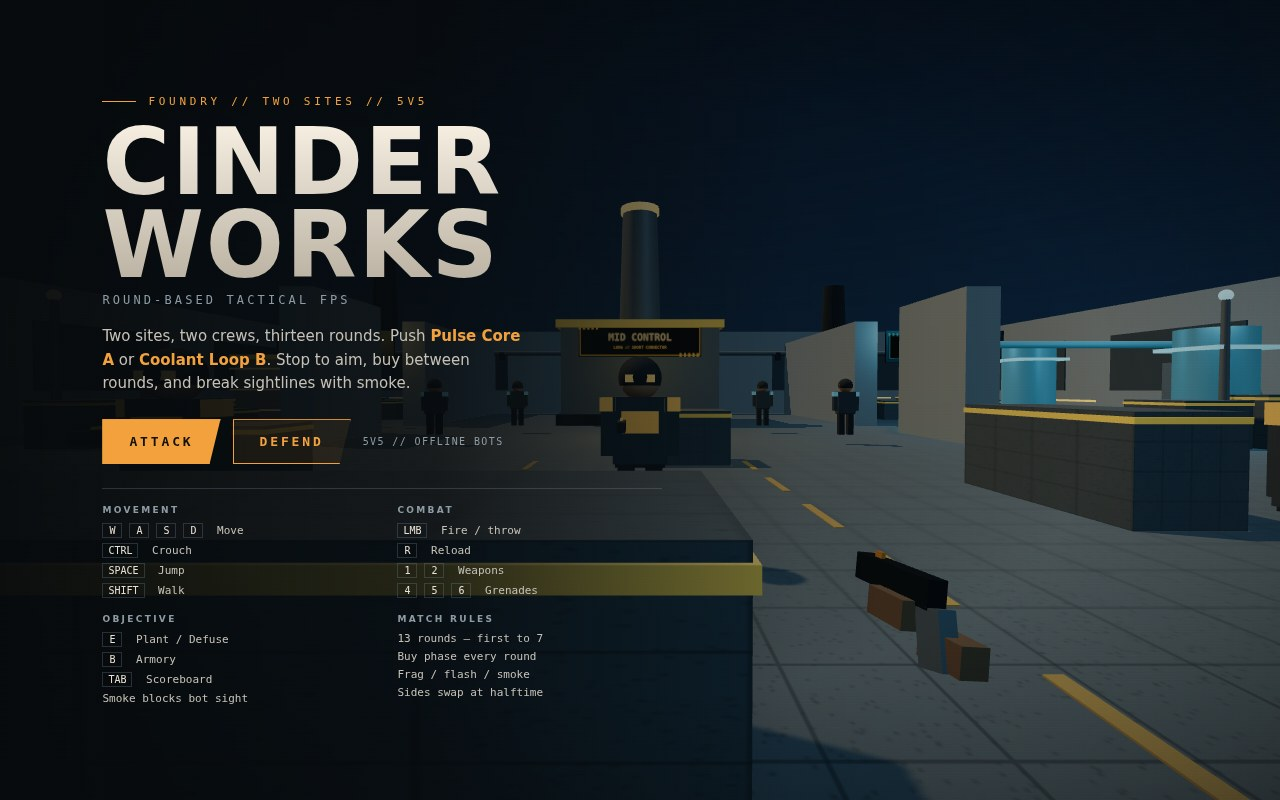
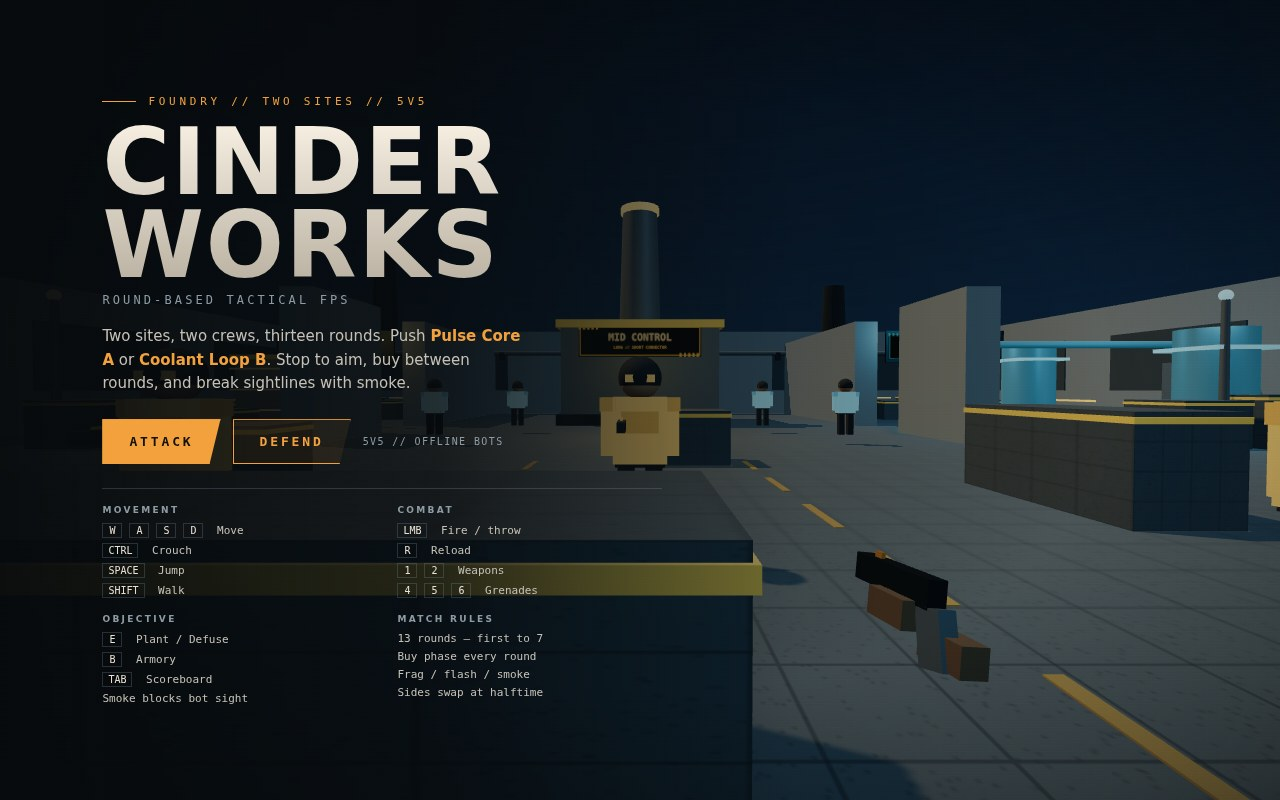
Sharpen team readability, show the planted charge and restage shots

diff --git a/game/src/main.js b/game/src/main.js
@@ -51,6 +51,20 @@ player.state.isPlayer = true;
 player.state.name = 'YOU';
 const bots = createBotSystem(scene, map, rng);
 const match = createMatch();
+const charge = new THREE.Group();
+const chargeShell = new THREE.Mesh(new THREE.BoxGeometry(0.38, 0.16, 0.26), map.materials.dark);
+const chargeStrip = new THREE.Mesh(new THREE.BoxGeometry(0.26, 0.035, 0.035), map.materials.hazard);
+chargeShell.position.y = 0.08;
+chargeStrip.position.set(0, 0.13, -0.135);
+charge.add(chargeShell, chargeStrip);
+charge.visible = false;
+scene.add(charge);
+function syncCharge() {
+const bomb = match.state.bomb;
+charge.visible = bomb.state === 'planted' || bomb.state === 'dropped';
+charge.position.set(bomb.position.x, bomb.state === 'planted' ? 0.16 : 0, bomb.position.z);
+chargeStrip.visible = Math.sin(match.state.now * 4) > -0.4;
+}
 const hud = createHud(map);
 const input = createInput(renderer.domElement, onLockChange);
 const view = createViewModel(camera);
@@ -462,7 +476,6 @@ return;
 const bot = bots.nearestAttacker(state.attackerTeam, bomb.position, 1.3);
 if (bot) {
 match.pickup(bot);
-// A replacement carrier goes straight to the site, not back through its old spawn route.
 bot.siteId = state.attackSite ?? bot.siteId;
 bot.routeIndex = map.routes[bot.siteId][bot.slot % 3].length;
 bot.repathTimer = 0;
@@ -816,8 +829,6 @@ camera.aspect = window.innerWidth / window.innerHeight;
 camera.updateProjectionMatrix();
 renderer.setSize(window.innerWidth, window.innerHeight);
 });
-// Adaptive resolution: a weak GPU scales the picture down, never the round clock.
-// Screenshots run at full quality and never touch this.
 const quality = { scale: 1, cooldown: 0 };
 function adaptQuality(dt) {
 if (shotMode) return;
@@ -1012,15 +1023,19 @@ state.attackerTeam = 'ember';
 state.playerTeam = 'ember';
 state.playerMoney = 3150;
 state.now = 331;
-state.bomb.state = 'carried';
-state.bomb.carrier = player.state;
-state.bomb.timer = 40;
-state.bomb.plantProgress = 0.52;
+state.bomb.state = 'planted';
+state.bomb.siteId = 'B';
+state.bomb.carrier = null;
+state.bomb.position.x = 13.5;
+state.bomb.position.z = -5.5;
+state.bomb.timer = 34;
+state.bomb.plantProgress = 0;
+state.bomb.defuseProgress = 0;
 state.banner = { text: '', sub: '', time: 0 };
 state.feed = [];
-player.state.position.set(12, 0, -3);
-player.state.yaw = 0.02;
-player.state.pitch = -0.36;
+player.state.position.set(13.4, 0, 2.8);
+player.state.yaw = 0.01;
+player.state.pitch = -0.17;
 player.state.health = 88;
 player.state.armor = 100;
 player.state.helmet = true;
@@ -1040,7 +1055,18 @@ loadout.primary.mag = 19;
 loadout.primary.reserve = 90;
 view.state.lowered = false;
 playersShotBots();
-effects.smoke(new THREE.Vector3(4.6, 0.35, -5.8));
+const allies = [[11.0, -2.8, 0.1], [15.8, -3.2, -0.15]];
+for (let i = 0; i < 2; i += 1) {
+bots.roster[i].position.set(allies[i][0], 0, allies[i][1]);
+bots.roster[i].yaw = allies[i][2];
+}
+bots.roster[4].position.set(13.2, 0, -10.2);
+bots.roster[4].yaw = Math.PI + 0.08;
+bots.roster[5].position.set(10.6, 0, -6.0);
+bots.roster[5].alive = false;
+bots.roster[5].deathTimer = 1.5;
+bots.syncModels(botCtx);
+effects.smoke(new THREE.Vector3(17.6, 0.35, -8.6));
 effects.setCameraQuaternion(camera.quaternion);
 effects.update(0.24);
 syncGunHud();
@@ -1054,14 +1080,14 @@ hud.setFeed(state.feed);
 hud.setBanner(state.banner);
 hud.setObjective(objectiveText());
 hud.setCrosshair(0.006);
-hud.setInteract(true, 0.52, 'HOLD E — PLANT AT COOLANT LOOP');
+hud.setInteract(false, 0, '');
 view.update(0.016, activeGun);
 tickHud(0.016);
-hud.setInteract(true, 0.52, 'HOLD E — PLANT AT COOLANT LOOP');
+hud.setInteract(false, 0, '');
 }
 function playersShotBots() {
 bots.resetRound('ember', 'ember');
-const allies = [[5.6, 4.2, -0.6], [-6.4, 2.2, 0.5], [2.8, 10.5, 0.0], [-4.2, 12.0, 0.1]];
+const allies = [[-15.4, -1.0, -0.12], [-6.4, 2.2, 0.5], [2.8, 10.5, 0.0], [-4.2, 12.0, 0.1]];
 for (let i = 0; i < 4; i += 1) {
 const bot = bots.roster[i];
 bot.position.set(allies[i][0], 0, allies[i][1]);
@@ -1107,6 +1133,7 @@ function paintShot(times = 3) {
 let painted = 0;
 function paint() {
 requestAnimationFrame(paint);
+syncCharge();
 syncCamera();
 camera.updateMatrixWorld(true);
 renderer.render(scene, camera);
@@ -1148,7 +1175,6 @@ return;
 const look = input.takeLook();
 if (input.state.locked) player.look(look.x, look.y);
 accumulator += dt;
-// Catch up to the clamped frame time: a slow renderer slows the picture, not the clock.
 const maxSteps = Math.ceil(0.1 / FIXED_STEP);
 let steps = 0;
 while (accumulator >= FIXED_STEP && steps < maxSteps) {
@@ -1166,6 +1192,7 @@ stats.since = now;
 window.__clock = { accumulator, steps };
 adaptQuality(dt);
 tickHud(dt);
+syncCharge();
 syncCamera();
 const alpha = Math.min(1, accumulator / FIXED_STEP);
 camera.position.lerpVectors(previousPositions[0], player.state.position, alpha);

diff --git a/game/src/bots.js b/game/src/bots.js
@@ -8,7 +8,6 @@ const ENEMY_NAMES = ['SLATE', 'MORROW', 'VALE', 'HARROW', 'SABLE'];
 const tempDir = new THREE.Vector3();
 const tempAim = new THREE.Vector3();
 const eyePoint = new THREE.Vector3();
-// Flash afterimage widens aim, then recovers smoothly after the full blind period.
 export function botAimError(bot, distance, speed, now) {
 return bot.aimError * (0.7 + distance / 55) * (speed > 2 ? 1.5 : 1) * (bot.gun.id === 'talon' ? 1.3 : 1)
 * (1 + Math.max(0, bot.dazzledUntil - now) * 1.8);
@@ -27,17 +26,17 @@ return out;
 function makeModel() {
 const group = new THREE.Group();
 const parts = { materials: [] };
-const mat = (color, metalness = 0.25, roughness = 0.7, emissive = 0) => {
+const mat = (color, metalness = 0.25, roughness = 0.7, emissive = 0, role = 'team') => {
 const material = new THREE.MeshStandardMaterial({ color: new THREE.Color(color), metalness, roughness });
 if (emissive) {
 material.emissive = new THREE.Color(color);
 material.emissiveIntensity = emissive;
 }
-parts.materials.push({ material, role: 'team' });
+parts.materials.push({ material, role });
 return material;
 };
 const dark = new THREE.MeshStandardMaterial({ color: new THREE.Color('#283238'), roughness: 0.8, metalness: 0.15 });
-const vest = new THREE.MeshStandardMaterial({ color: new THREE.Color('#3b4850'), roughness: 0.75, metalness: 0.2 });
+const vest = mat('#3b4850', 0.2, 0.75, 0, 'vest');
 const skin = new THREE.MeshStandardMaterial({ color: new THREE.Color('#a37f61'), roughness: 0.9 });
 const torso = new THREE.Mesh(new THREE.BoxGeometry(0.5, 0.62, 0.28), vest);
 torso.position.y = 1.22;
@@ -102,6 +101,7 @@ function styleModel(bot) {
 const color = teamColor(bot.team);
 for (const entry of bot.model.parts.materials) {
 entry.material.color.set(color);
+if (entry.role === 'vest') entry.material.color.multiplyScalar(0.55);
 if (entry.material.emissive) entry.material.emissive.set(color);
 }
 }
@@ -208,7 +208,6 @@ bot.model.parts.legR.rotation.set(0, 0, 0);
 function sideOf(bot, attackerTeam) {
 return bot.team === attackerTeam ? 'attack' : 'defend';
 }
-// Loss-streak eco: save for a rifle and armor rather than force-buying every round.
 function buy(attackerTeam, lossStreak = {}) {
 for (const bot of roster) {
 bot.eco = (lossStreak[bot.team] ?? 0) >= 2 && bot.money < WEAPONS.longbow.price + 650;
@@ -242,7 +241,6 @@ let count = 0;
 for (const bot of roster) if (bot.alive && bot.team === team) count += 1;
 return count;
 }
-// Nearest live attacker coordinates recovery and uses the same eligibility as pickup.
 function nearestAttacker(team, position, range = Infinity) {
 let nearest = null;
 for (const bot of roster) {
@@ -354,7 +352,6 @@ bot.yaw += (rng() - 0.5) * 1.4;
 }
 return actual;
 }
-// Site anchors hold approaches; one attacker retrieves a dropped core while others cover.
 function objectiveFor(bot, ctx, recoverer) {
 const bomb = ctx.bomb;
 const attacking = bot.team === ctx.attackerTeam;
@@ -503,7 +500,6 @@ animate(bot, dt, ctx);
 continue;
 }
 stepGun(bot.gun, dt);
-// Flash and smoke break target lock immediately, even between perception ticks.
 if (bot.target && (bot.blindUntil > ctx.now || ctx.effects.smokeBlocks(bot.position.x, bot.position.z, bot.target.position.x, bot.target.position.z))) {
 bot.target = null;
 bot.lastSeenAt = -10;

diff --git a/game/src/combat.js b/game/src/combat.js
@@ -81,14 +81,12 @@ const falloff = 1 - def.falloff * drop;
 const head = part === 'head' ? def.head : 1;
 return def.damage * falloff * head;
 }
-// Helmets protect heads; body armor absorbs only as much damage as its remaining durability.
 export function armorDamage(entity, amount, part) {
 if (part === 'head') return amount * (entity.helmet ? 0.72 : 1);
 const absorbed = Math.min(amount * 0.5, Math.max(0, entity.armor) / 0.9);
 entity.armor = Math.max(0, entity.armor - absorbed * 0.9);
 return amount - absorbed;
 }
-// Shard blast fades continuously to zero at its 7.5m radius.
 export function fragDamage(distance) {
 return 120 * Math.max(0, 1 - distance / 7.5);
 }

diff --git a/game/src/map.js b/game/src/map.js
@@ -469,7 +469,6 @@ const NEIGHBORS = [
 [1, 0, 1], [-1, 0, 1], [0, 1, 1], [0, -1, 1],
 [1, 1, Math.SQRT2], [1, -1, Math.SQRT2], [-1, 1, Math.SQRT2], [-1, -1, Math.SQRT2],
 ];
-// A* on the 1 m grid, with no diagonal corner cutting.
 function findPath(fromX, fromZ, toX, toZ) {
 const start = nearestOpen(fromX, fromZ);
 const goal = nearestOpen(toX, toZ);

diff --git a/game/src/weapon.js b/game/src/weapon.js
@@ -53,7 +53,6 @@ restTime: 1,
 };
 return gun;
 }
-// Accuracy settles after movement; a pause restores first-shot precision and recoil.
 export function stepGun(gun, dt, speed = 0) {
 gun.cooldown = Math.max(0, gun.cooldown - dt);
 gun.bloom = Math.max(0, gun.bloom - dt * (gun.def.bloomMax > 0.03 ? 0.06 : 0.09));

diff --git a/game/src/hud.js b/game/src/hud.js
@@ -273,7 +273,6 @@ boardOpen = open;
 els.board.hidden = !open;
 }
 function refreshBoard(rows, state) {
-// Team budget includes the player and fallen members, not just survivors.
 for (const team of ['ember', 'warden']) {
 let money = 0;
 for (const row of rows) if (row.team === team) money += row.money;
